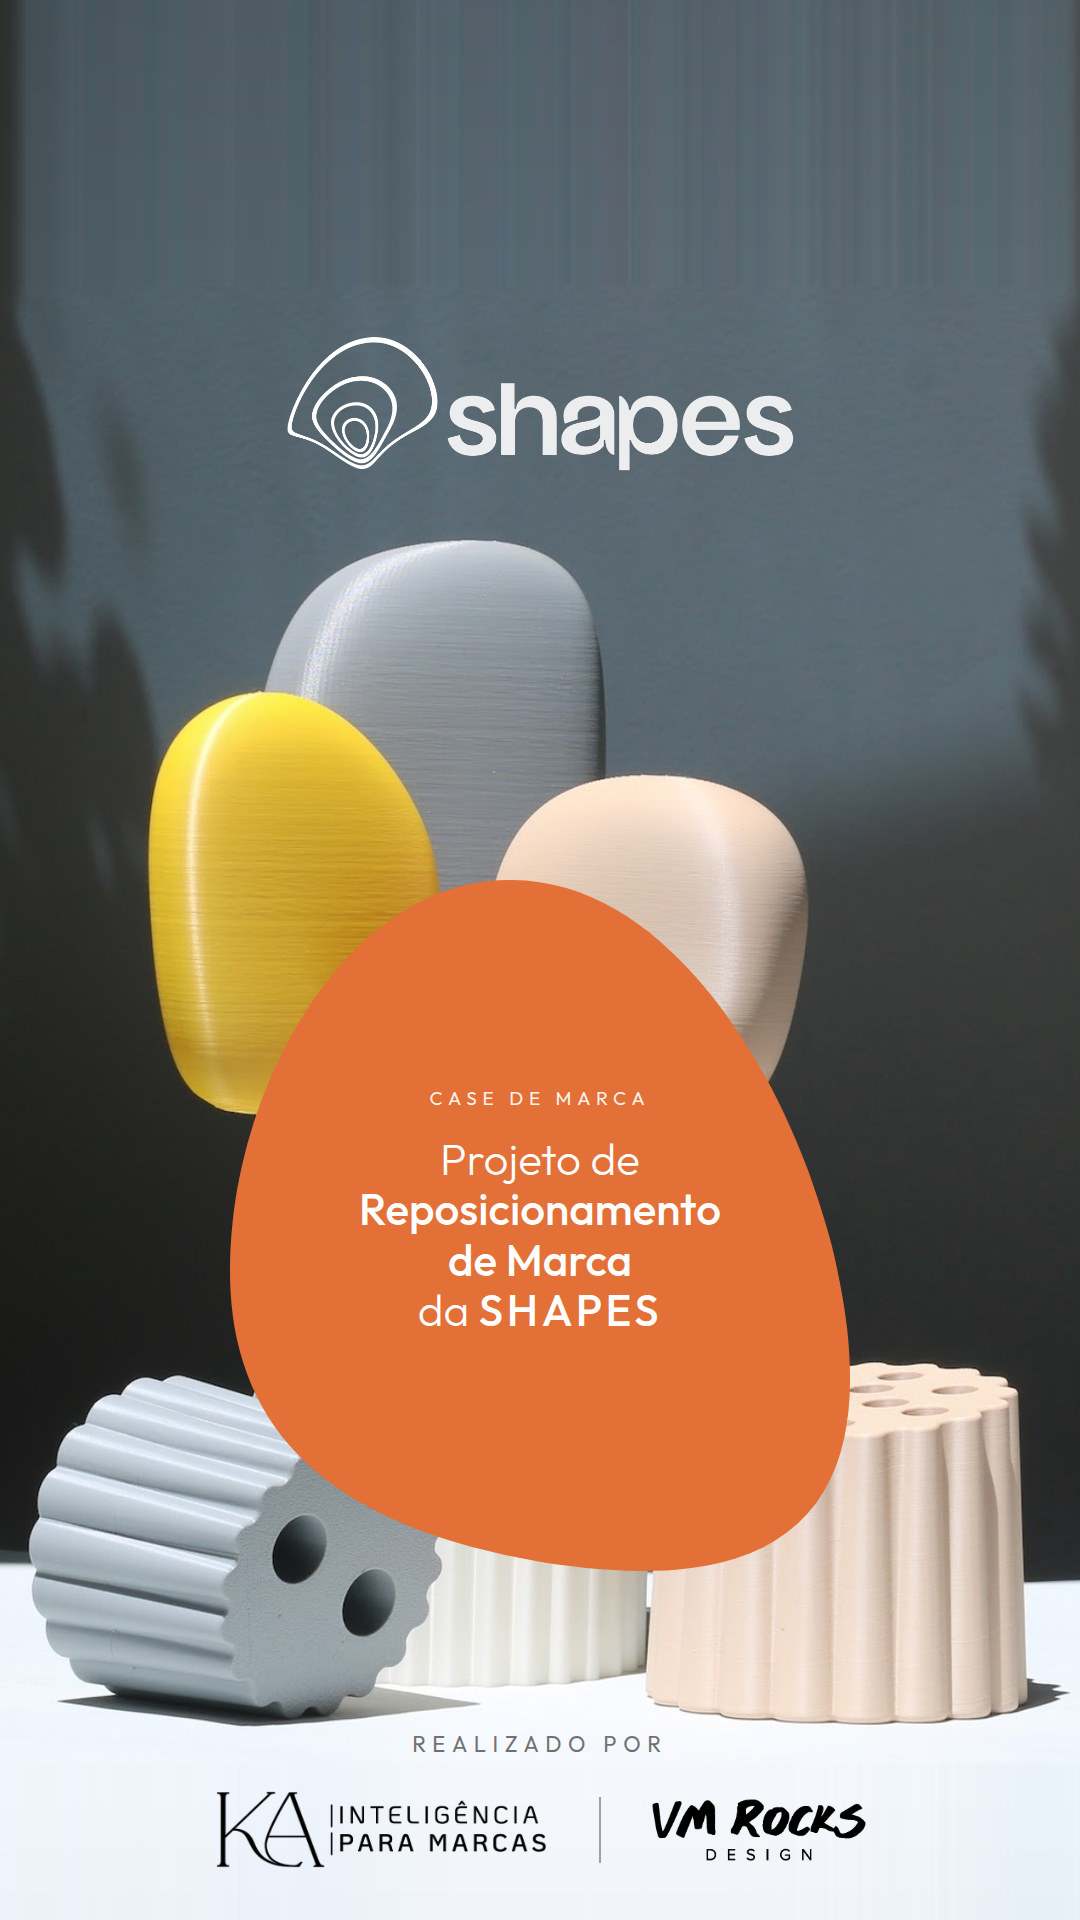
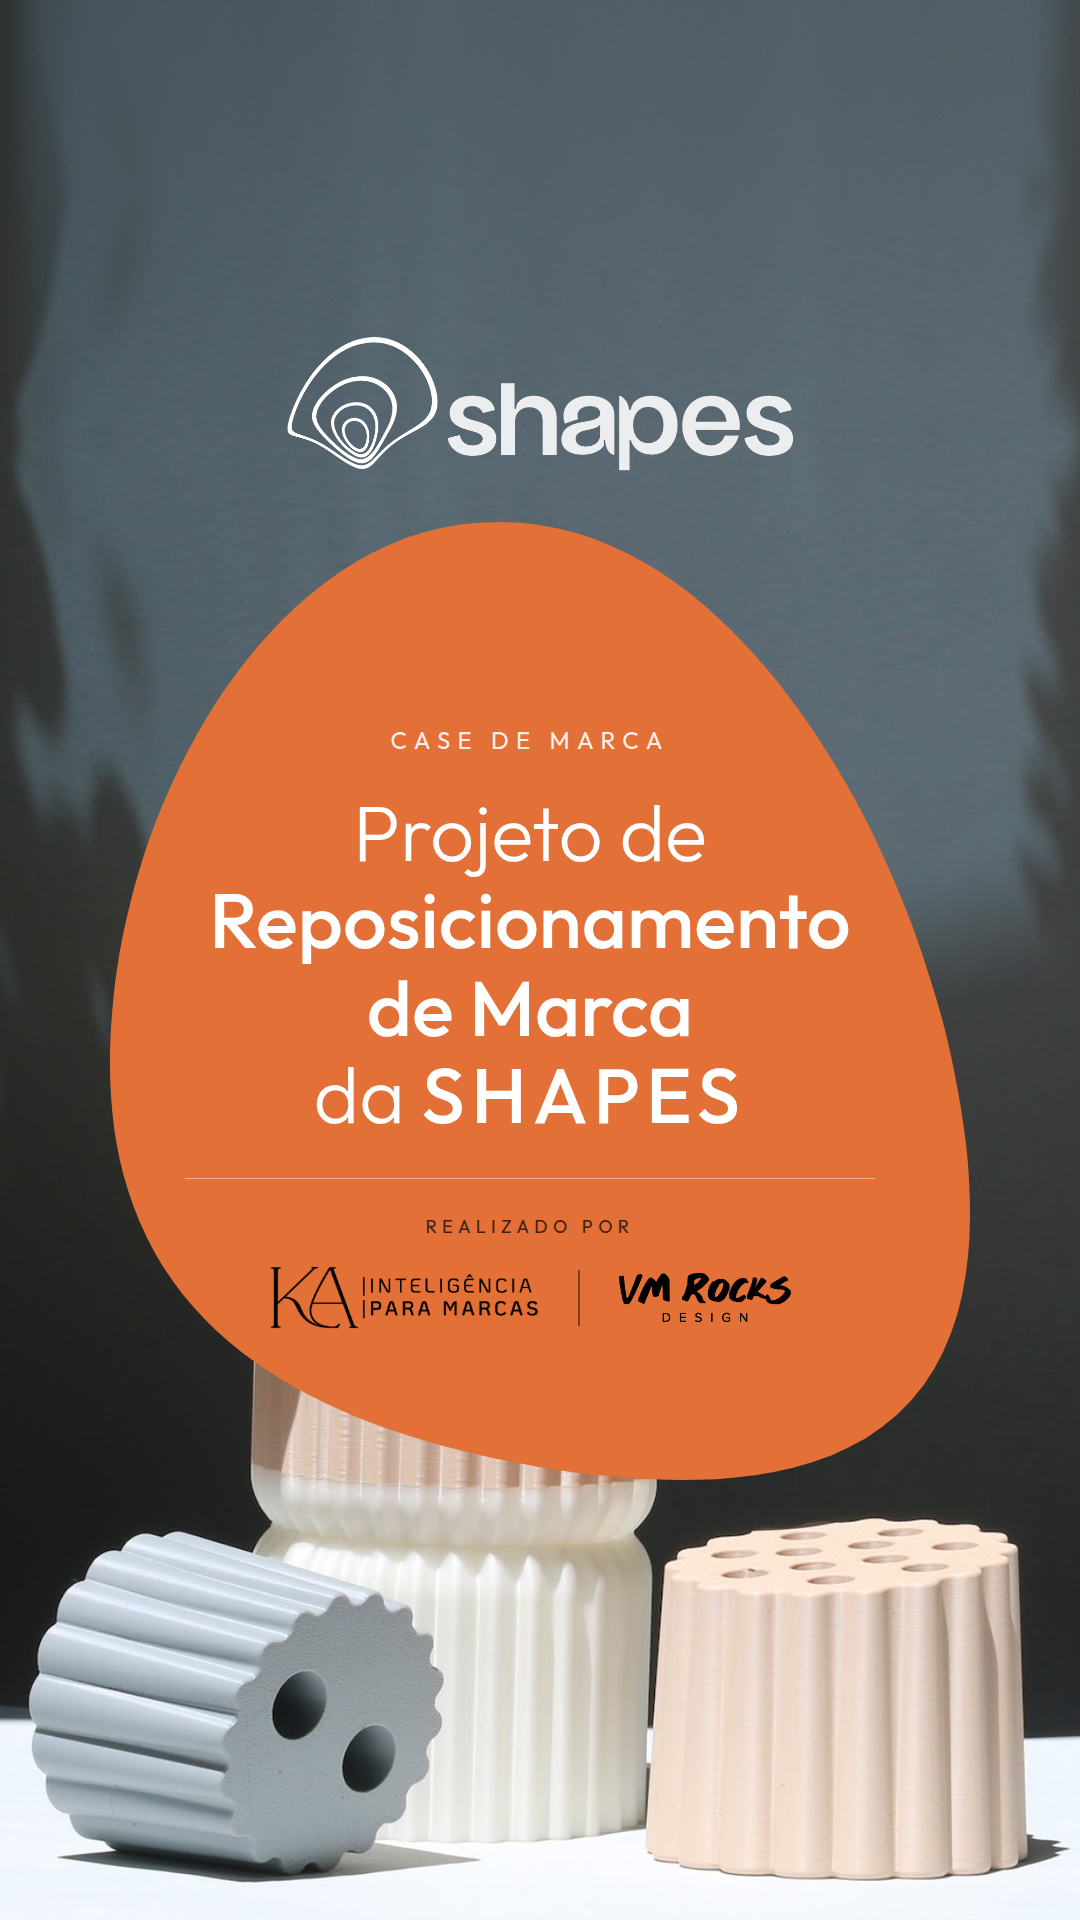
Capa da Shapes: tudo dentro do recorte 1080x1350 do feed
Pedidos da Kelly: massa de cor maior, titulo com mais destaque, e credito
da KA e da VM mais alto — porque no feed so aparecem 1080x1350 e o que cai
fora e cortado.

O recorte mudou o layout inteiro. Dentro dele a foto oferece UM campo
limpo, nao dois: o fundo escuro ate y 691 (media 98, desvio 2), onde a
marca do cliente entra em branco com 5,9:1. A mesa branca, o outro campo
limpo, so comeca em y 1720 — fora do recorte. Entao o credito nao pode
pousar na foto: subiu para dentro da massa de cor, em preto, que no
laranja da 6,6:1 (o branco daria 3,2:1).

  - massa de cor de 620 para 860 px de largura, respeitada a proporcao
    0,8972 da silhueta do brandbook;
  - titulo de 44 para 78 px;
  - quadro da foto deslocado 156 px para baixo, senao o objeto amarelo
    encostava na borda da massa e criava franja de dois laranjas;
  - extensao do topo refeita: repetir uma linha 440 vezes estriava e
    espelhar a foto inteira trazia o fantasma de um objeto. Agora espelha
    so as 250 linhas de parede limpa e dissolve num campo com grao.
    Degrau na emenda: 0,6 nivel.

Recuos assimetricos na forma porque a silhueta e assimetrica: eixo util
medido em x 530 e recuo maior no topo, que e estreito. Texto centralizado
na caixa encostava na borda.

Novo: build/conferir-capa.mjs. Le o clip-path que de fato vai ao ar,
reconstroi a borda linha a linha e mede a folga de cada LINHA de texto ate
ela, mais o recorte do feed. Estado atual: menor folga 39 px, tudo dentro.
[…]

diff --git a/sistema/sistema.css b/sistema/sistema.css
@@ -848,7 +848,7 @@ html, body {
 /* Titulo de abertura do video. */
 .titulo-video {
   margin: 0;
-  font-size: 74px;
+  font-size: 78px;
   font-weight: var(--peso-light);
   line-height: 1.1;
   color: var(--cor-papel);
@@ -987,10 +987,10 @@ html, body {
 .capa-case__forma {
   position: absolute;
   left: 50%;
-  top: 880px;
+  top: 522px;
   transform: translateX(-50%);
-  width: 620px;
-  height: 691px;          /* 620 / 0,8972 */
+  width: 860px;
+  height: 958px;          /* 860 / 0,8972 */
   background: var(--cliente-acento);
   clip-path: polygon(
       97.09% 53.02%, 97.52% 54.62%, 97.92% 56.25%, 98.29% 57.91%, 98.65% 59.62%, 98.98% 61.36%,
@@ -1026,13 +1026,18 @@ html, body {
   align-items: center;
   justify-content: center;
   text-align: center;
-  padding: 0 74px 30px;
+  /* Recuos assimetricos porque a silhueta e assimetrica. Em cima ela e
+     estreita e embaixo larga, entao centralizar pela caixa deixa o texto
+     alto: dai o recuo maior no topo. E o eixo dela pende para a direita
+     (centro medido da silhueta na faixa do conteudo: x 530, nao 540), dai o recuo maior
+     a direita. Texto centralizado na caixa encostaria na borda. */
+  padding: 56px 95px 0 75px;
   z-index: 2;
 }
 
 .capa-case__rotulo {
-  margin: 0 0 24px;
-  font-size: 19px;
+  margin: 0 0 34px;
+  font-size: 24px;
   font-weight: var(--peso-regular);
   letter-spacing: 0.3em;
   text-transform: uppercase;
@@ -1042,9 +1047,9 @@ html, body {
 
 .capa-case__titulo {
   margin: 0;
-  font-size: 44px;
+  font-size: 78px;
   font-weight: var(--peso-light);
-  line-height: 1.14;
+  line-height: 1.12;
   color: var(--cliente-fundo);
 }
 
@@ -1055,38 +1060,37 @@ html, body {
   letter-spacing: 0.08em;
 }
 
-/* Assinatura do case: quem fez. Em preto sobre a mesa da propria foto.
-   E o unico bloco abaixo do recorte 1080x1350 do feed: na miniatura do
-   perfil entram a marca do cliente e o titulo, que e o que a miniatura tem
-   de dar conta. O credito e lido no video, que e onde ele importa. */
+/* Assinatura do case: quem fez. Vive dentro da massa de cor, separada do
+   titulo por um filete — e o unico campo limpo dentro do recorte do feed.
+   Em preto: no laranja da marca da 6,6:1, contra 3,2:1 do branco. O case e
+   da Shapes; a autoria fica marcada, nao gritada. */
 .capa-case__credito {
-  position: absolute;
-  left: 0;
-  right: 0;
-  top: 1730px;
+  margin-top: 40px;
+  padding-top: 36px;
+  width: 100%;
+  border-top: var(--fio) solid rgba(var(--cliente-fundo-rgb, 255, 255, 255), 0.45);
   display: flex;
   flex-direction: column;
   align-items: center;
-  z-index: 2;
 }
 
 .capa-case__credito-rotulo {
-  margin: 0 0 28px;
-  font-size: 22px;
+  margin: 0 0 24px;
+  font-size: 18px;
   font-weight: var(--peso-regular);
   letter-spacing: 0.3em;
   text-transform: uppercase;
   color: var(--cliente-tinta);
-  opacity: 0.55;
+  opacity: 0.72;
 }
 
 .capa-case__assinaturas {
   display: flex;
   align-items: center;
-  gap: 48px;
+  gap: 36px;
 }
 
 .capa-case__assinaturas img { display: block; }
-.capa-case__filete { width: var(--fio); height: 66px; background: var(--cliente-tinta); opacity: 0.35; }
+.capa-case__filete { width: var(--fio); height: 56px; background: var(--cliente-tinta); opacity: 0.45; }
 
 

diff --git a/arte/capa-case-shapes.html b/arte/capa-case-shapes.html
@@ -41,16 +41,16 @@
       Projeto de<br><strong>Reposicionamento</strong><br><strong>de Marca</strong><br>
       da <span class="marca">SHAPES</span>
     </p>
-  </div>
 
-  <div class="capa-case__credito">
-    <p class="capa-case__credito-rotulo">Realizado por</p>
-    <div class="capa-case__assinaturas">
-      <img src="../assets/logos/ka-marcas-horizontal-bold.png"
-           alt="KA Inteligência para Marcas" style="width: 340px">
-      <div class="capa-case__filete"></div>
-      <img src="../assets/logos/vm-rocks-horizontal.png"
-           alt="VM Rocks Design" style="width: 220px">
+    <div class="capa-case__credito">
+      <p class="capa-case__credito-rotulo">Realizado por</p>
+      <div class="capa-case__assinaturas">
+        <img src="../assets/logos/ka-marcas-horizontal-bold.png"
+             alt="KA Inteligência para Marcas" style="width: 276px">
+        <div class="capa-case__filete"></div>
+        <img src="../assets/logos/vm-rocks-horizontal.png"
+             alt="VM Rocks Design" style="width: 178px">
+      </div>
     </div>
   </div>
 

diff --git a/assets/shapes/LEIA-ME.md b/assets/shapes/LEIA-ME.md
@@ -30,27 +30,39 @@ Extraidos do brandbook (Canva, `DAG8XSf_Ayo` — `BRANDBOOK_SHAPES.pdf`).
 
 A capa usa a foto **sangrando de borda a borda, sem corte e sem veu**. Como
 a foto e 0,73 e o story e 0,5625, coube sem perder pedaco por um caminho
-so: em vez de cortar a foto, esticamos o quadro. `produtos-shapes-capa.jpg`
-e a foto inteira com o proprio fundo dela continuado 284 px para cima e a
-propria mesa continuada 156 px para baixo, por repeticao da linha de borda
-com queda de luz. Emenda medida: 96,9 contra 97,4 niveis em cima; 246,2
-contra 245,6 embaixo. Invisivel.
+so: em vez de cortar a foto, esticamos o quadro.
+
+`produtos-shapes-capa.jpg` e a foto inteira (1080x1480) com 440 px de
+fundo acrescentados **em cima**, e nada embaixo — a mesa da foto termina
+no pe da capa. O acrescimo nao e cor chapada nem uma linha repetida (as
+duas estriam): e a propria parede espelhada a partir da emenda, so nas 250
+primeiras linhas, que sao as unicas sem objeto. Acima, a textura espelhada
+se dissolve num campo liso com grao. Degrau medido na emenda: **0,6 nivel**.
 
 Para refazer com outra foto, o roteiro e esse: medir, achar os silencios,
 esticar o quadro — nunca cortar o assunto.
 
-O que sustenta o layout sao dois silencios que a propria foto ja tem:
+## O que decide o layout
+
+Tudo tem de caber no **recorte 1080x1350 do feed** (y 285 a 1635), senao o
+Instagram corta no perfil. Dentro desse recorte a foto oferece **um** campo
+limpo, nao dois:
 
 | Zona | Medida | Serve para |
 |---|---|---|
-| fundo, ate y 535 | media 100, desvio 2 | marca do cliente em **branco**, contraste 5,9:1 |
-| mesa, de y 1730 | media 246, desvio 1 | credito da KA e da VM em **preto** |
+| fundo, ate y 691 | media 98, desvio 2 | marca do cliente em **branco**, 5,9:1 |
+| mesa, so de y 1720 | media 246, desvio 1 | **fora do recorte** — nao da para usar |
+
+Por isso o credito da KA e da VM nao pousa na foto: ele sobe para dentro da
+massa de cor, em preto (6,6:1 no laranja). A massa e o unico campo limpo
+disponivel dentro do recorte.
 
 Testamos antes a foto como fundo de texto no meio do quadro e nao da: as
 melhores faixas dao media 140 a 190 com desvio de 26 a 45 — meio-tom e
-agitado, o pior caso tanto para tinta quanto para branco. Veu resolveria o
-contraste e apagaria a foto; corte resolveria o enquadramento e mudaria a
-foto. O layout foi para onde o silencio ja estava.
+agitado, o pior caso tanto para tinta quanto para branco.
+
+`node build/conferir-capa.mjs` mede as duas coisas: a folga de cada linha
+de texto ate a silhueta e se algo saiu do recorte do feed.
 
 ## A forma organica
 
@@ -62,6 +74,10 @@ Proporcao original **0,8972** (largura / altura) — respeite, senao deforma.
 No CSS ela vai como `clip-path: polygon(...)` em `.capa-case__forma`,
 porque `mask-image` de arquivo externo nao resolve no Chromium da
 exportacao. O SVG fica para uso fora daqui: Canva, editor de video.
+
+Como a silhueta e assimetrica, texto centralizado na caixa encosta na
+borda. O eixo util medido fica em **x 530**, nao 540, e o recuo de cima e
+maior que o de baixo porque a forma e estreita no topo e larga na base.
 
 Os demais arquivos foram extraidos dos prints do Canva enviados pela
 Kelly: o branco virou transparencia pelo inverso da luminancia, entao as

diff --git a/assets/logos/LEIA-ME.md b/assets/logos/LEIA-ME.md
@@ -10,3 +10,8 @@ grosso da VM Rocks e sumiria no arquivo fino.
 
 Se a Gabi produzir uma versao mais encorpada do lockup, troque o arquivo:
 a peca aponta para ele por nome, nada mais muda.
+
+Os arquivos `*-branco.png` sao os mesmos lockups com a tinta trocada por
+branco, mantido o alfa — para uso sobre cor ou fundo escuro. Na capa de
+case atual nao entram: no laranja da Shapes o preto da 6,6:1 e o branco
+so 3,2:1. Ficam prontos para a proxima peca que pedir fundo escuro.

diff --git a/README.md b/README.md
@@ -69,6 +69,7 @@ assets/
 
 build/
   exportar.mjs      HTML → PNG + PDF via Chromium
+  conferir-capa.mjs mede a capa de case: folga até a silhueta + recorte do feed
   pptx/
     sistema-pptx.mjs  o mesmo sistema, em PowerPoint
     previa.py         lê um .pptx e desenha sua geometria real em HTML
